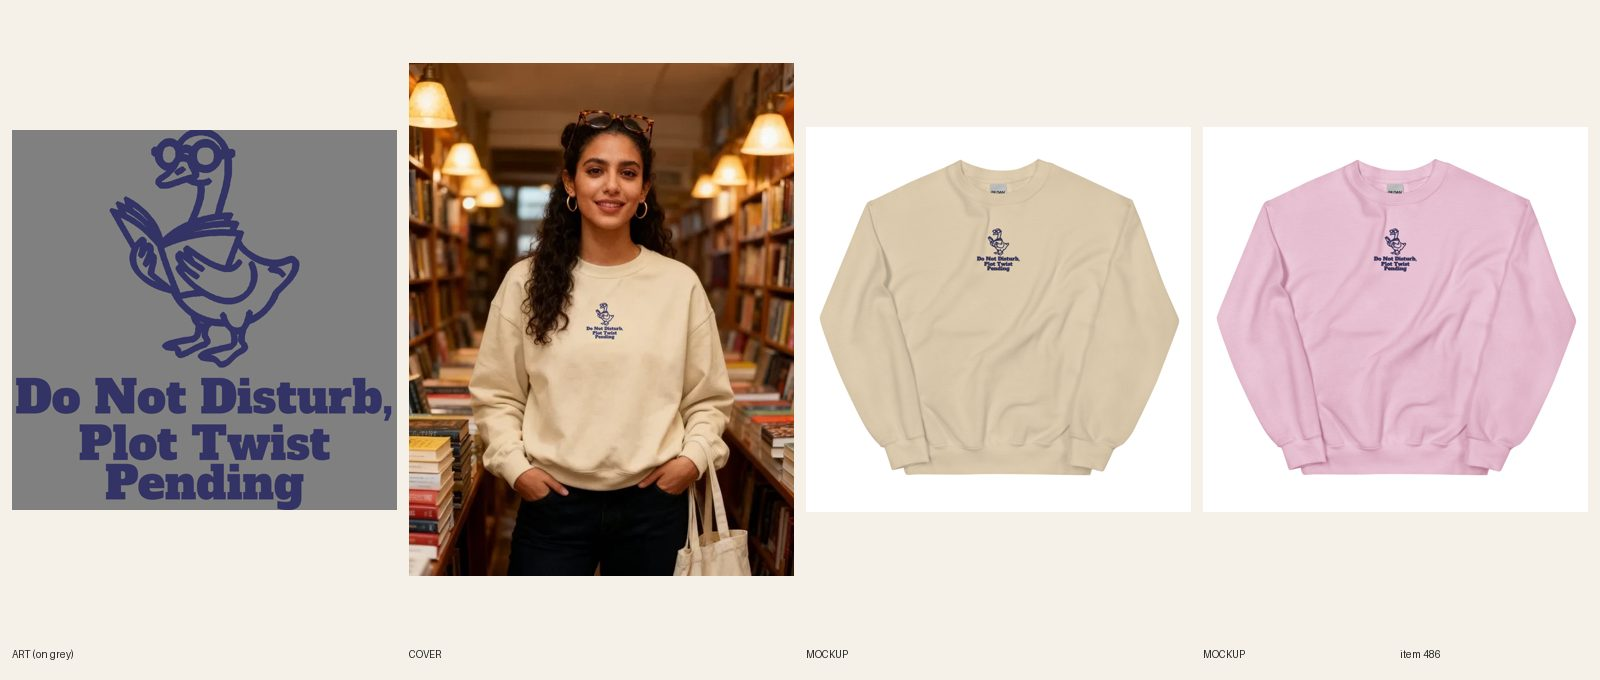
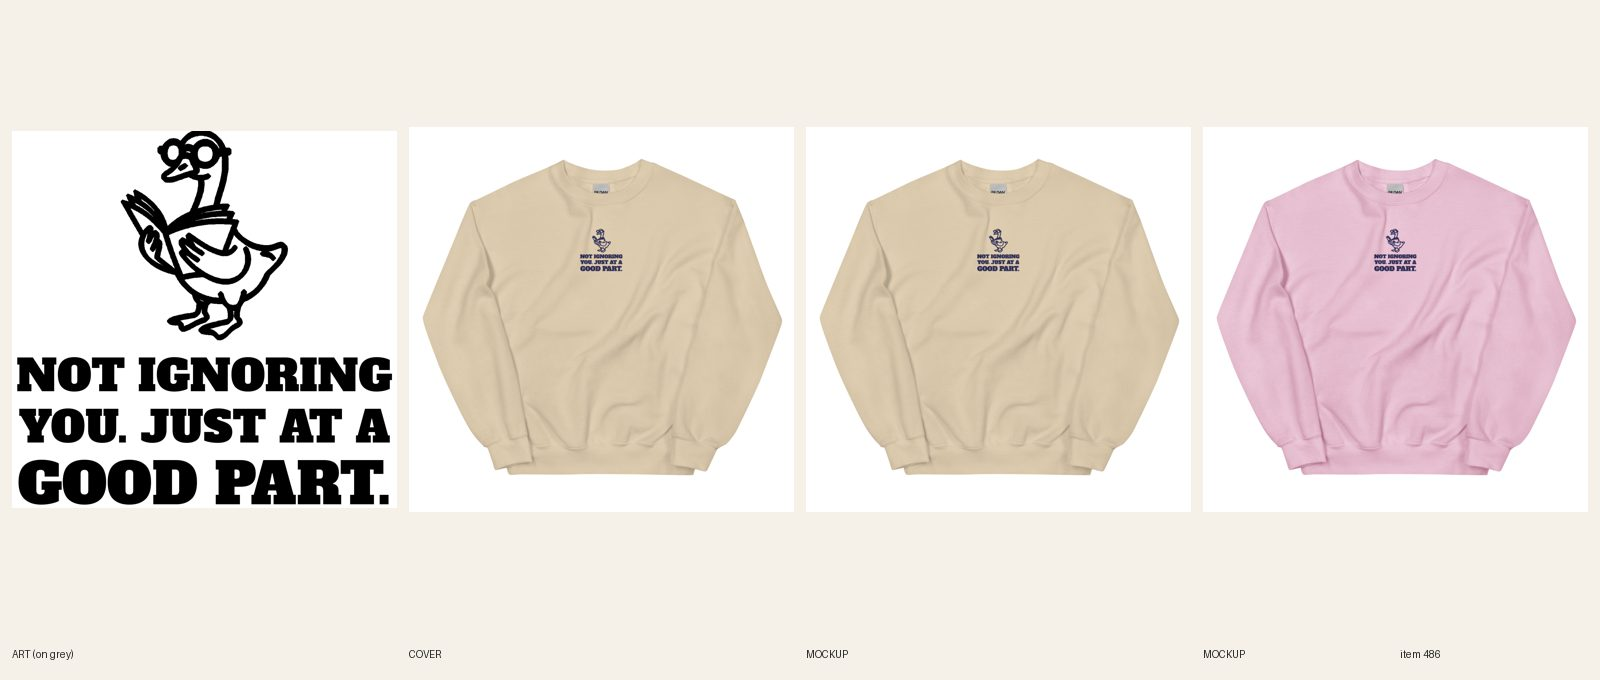
[E] review 486 redid #486 Women's Embroidered goose crewneck (line + type: NOT IGNORING YOU. / JUST AT A GOOD PART., same goose, new stitched lettering, navy thread, 12/12 synced). REVIEW. fal $0.

Changed region(s): [[0.0, 0.0926, 0.5, 0.8647], [0.8438, 0.3397, 0.9062, 0.4015], [0.5938, 0.3397, 0.6562, 0.4015]]

diff --git a/docs/pipeline/486-embroidered-crew-plot-twist-pending.md b/docs/pipeline/486-embroidered-crew-plot-twist-pending.md
@@ -1,4 +1,4 @@
-status: REDO
+status: REVIEW
 lane: E
 type: new
 id: 486
@@ -37,3 +37,4 @@ kd: 58
 - 2026-10-18 05:49 UTC builder [E]: re-sync 12/12 confirmed on file 1088710977. REVIEW.
 - 2026-10-18 06:14 UTC director: LIVE. Sheet reviewed (R3/R4/R5/R6/R8/R13.3 pass), ACTIVE + published to Online Store, My Store Headless, Google & YouTube; cohesion-audit --handle PASS 0 warn. Copy fix: lettering now described as three lines of slab lettering (was two lines, serif).
 - 2026-10-18 17:22 UTC director: QUALITY RESET grade C (new line + type), REDO. The product stays ACTIVE (same handle, URL, title keyword). 1. Line (R3.12, quality-reset 'Lines'): "Do Not Disturb, / Plot Twist Pending": Stock bookish phrase; mild, no punch. Write 5 candidates, keep the one a stranger laughs at in 3 seconds without backstory; kill lines that only describe the picture; if none of the 5 is funny, PARK it. 2. Quality reset type bar (docs/backlog/quality-reset.md, 'The new bar'): headline at least 90% of the art width, heavy, colors pulled from the art; second line at least 45% of the headline's height, never a thin script on a dark or mid garment; use the lettering as a shape (arch, stacked lockup, words breaking into the art), not a plain bar above and a script line below; no font used on more than 1 in 6 of the last 30 designs. 3. Keep the art if it carries the new line, else one new illustration (R4/R5). New print means a new cover per R6.10, copy line one rewritten for the new joke (R8.3), and a fresh review sheet (R7.7). While quality-reset.md says PAUSED, only lane A builds, and only the samples step 2 names.
+- 2026-10-20 06:43 UTC builder [E]: REDO 486 (C grade, line + type) done in place (stays ACTIVE, handle unchanged; title now Women's Embroidered – Goose Not Ignoring You Crewneck Sweatshirt). 5 candidates: 'Do Not Disturb, Plot Twist Pending' (old); 'NOT IGNORING YOU. JUST AT A GOOD PART.'; 'ONE MORE CHAPTER.'; 'I READ THE LAST PAGE FIRST.'; 'SPOILERS: I DON'T CARE'. Kept NOT IGNORING YOU. / JUST AT A GOOD PART. (every reader's excuse, the goose with the book proves it). Same goose line art (cropped from the live stitch file), new lettering only (no fal, $0): Alfa Slab caps on three lines at equal width, emb-prep 3.93 x 3.92 in (inside 4 x 4 in), thinnest stroke 1.52 mm, capitals about 0.43 in (min 0.3 in), no gradients, no texture. One thread #333366 (navy) on Sand and Light Pink as before, file 1090210726. Verified 12/12 on the new embroidery_chest_center file for both colors, back logo kept. Front mockups replaced in place (pf-emb-mockup 145, 1139/1140), alts, title, SEO, copy, FAQs updated. Phone-size read OK (small at 400 px by the 4 in limit). Cover: handle added to retired-covers.json (old cover shows old words). audit PASS 0 warn, build OK. Sheet docs/review/486.jpg.

diff --git a/docs/intake-log.md b/docs/intake-log.md
@@ -1,4 +1,5 @@
 RUNNING lane C since 2026-10-20 06:30 UTC
+2026-10-20 06:43 UTC — [E] Builder run: redid #486 Women's Embroidered goose crewneck (line + type: NOT IGNORING YOU. / JUST AT A GOOD PART., same goose, new stitched lettering, navy thread, 12/12 synced). REVIEW. fal $0.
 RUNNING director since 2026-10-20 06:16 UTC
 2026-10-20 06:30 UTC — [E] Builder run: redid #466 Unisex Embroidered hoodie (line + type: REPLAYING / WHAT I SAID / IN 2014., new stitched lettering, Sand navy thread + Navy white thread, 12/12 synced). REVIEW. fal $0.
 2026-10-20 06:41 UTC — [B] Builder run: redid #380 round 2 (RULES: UNKNOWN. / SNACKS: PACKED., punch widened to headline width, ink widths 3598/3598 px, Sand + Sport Grey, 12/12 synced). REVIEW. fal $0.
